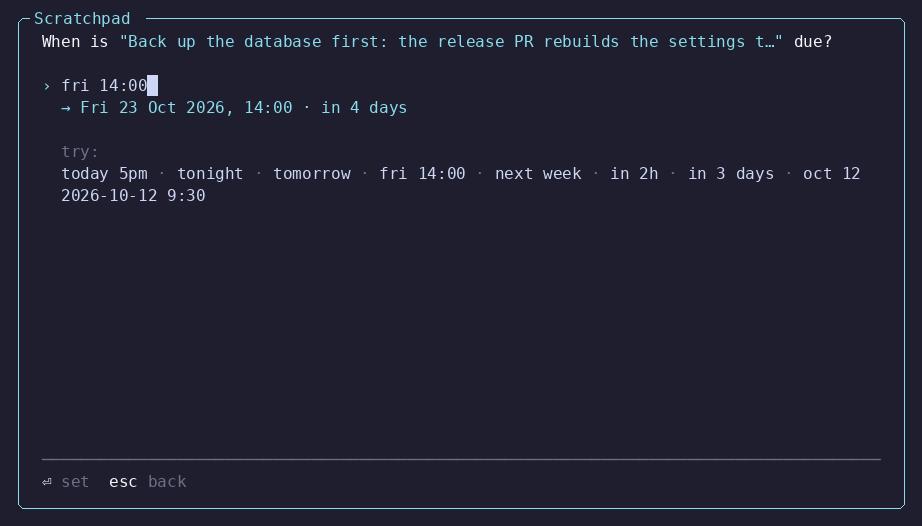
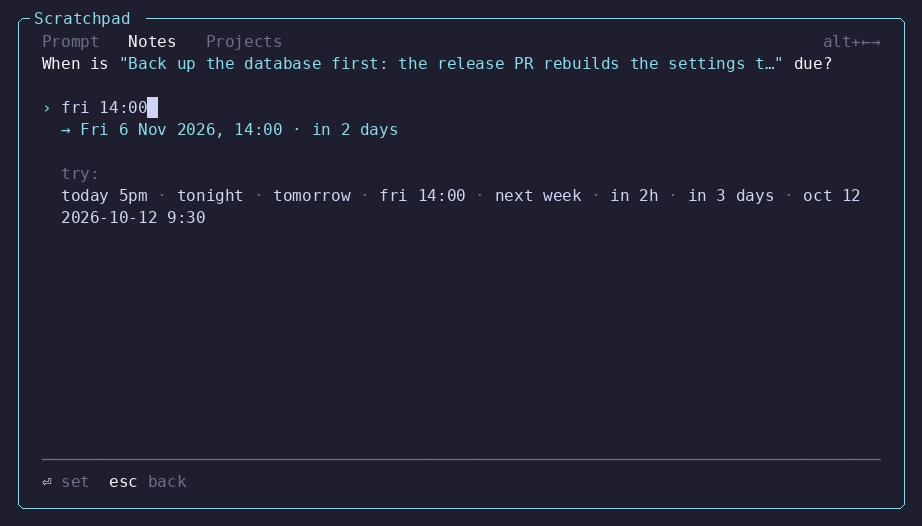
Show the tab strip and switch with alt+left and alt+right
The strip sits on the top row above both screens. Switching keeps an
unsaved note, as esc does, and passes on this folder. The README
images are redrawn with it.

diff --git a/scratchpad/lib/shared/tabs.js b/scratchpad/lib/shared/tabs.js
@@ -1,0 +1,49 @@
+"use strict";
+
+// The strip across the top of every popup, so the three read as one: Prompt,
+// Notes, Projects. Each tab is its own plugin's popup. Switching
+// closes this one and opens the next where it stood, passing on the folder
+// you were looking at.
+
+const path = require("node:path");
+const { style, truncate, displayWidth } = require("./ui");
+const { spawnDetached } = require("./herdr");
+
+const TABS = [
+  { id: "prompt", title: "Prompt", plugin: "taanviir.quick-prompt", entrypoint: "picker", prefix: "QUICK_PROMPT" },
+  { id: "notes", title: "Notes", plugin: "taanviir.scratchpad", entrypoint: "popup", prefix: "SCRATCHPAD" },
+  { id: "projects", title: "Projects", plugin: "taanviir.projects", entrypoint: "picker", prefix: "PROJECTS" },
+];
+
+const SWITCHER = path.join(__dirname, "switch.js");
+
+// `right` is the popup's own summary, kept at the far end.
+function strip(current, width, right = "") {
+  const tabs = TABS.map((tab) => (tab.id === current ? style.accent(style.bold(tab.title)) : style.dim(tab.title))).join("   ");
+  const hint = style.dim("alt+←→");
+  const end = right ? `${right}  ${hint}` : hint;
+  const gap = width - displayWidth(tabs) - displayWidth(end);
+  return gap >= 2 ? `${tabs}${" ".repeat(gap)}${end}` : truncate(tabs, width);
+}
+
+// alt+← and alt+→ step through the tabs, wrapping round. Returns the tab to
+// go to, or null when the key is not a switch.
+function switchFor(key, current) {
+  if (!key?.meta || (key.name !== "left" && key.name !== "right")) return null;
+  const at = TABS.findIndex((tab) => tab.id === current);
+  return TABS[(at + (key.name === "left" ? -1 : 1) + TABS.length) % TABS.length];
+}
+
+// The caller quits right after: Herdr opens the next popup once this one is
+// gone. `where` is { cwd, workspace, pane }, as far as the popup knows them.
+function switchTo(tab, where) {
+  spawnDetached(process.execPath, [SWITCHER, JSON.stringify({ id: tab.id, ...where })]);
+}
+
+// Each plugin reads where it was opened from in its own variables.
+function envFor(tab, { cwd, workspace, pane } = {}) {
+  const env = { [`${tab.prefix}_CWD`]: cwd, [`${tab.prefix}_WORKSPACE`]: workspace, [`${tab.prefix}_PANE`]: pane };
+  return Object.fromEntries(Object.entries(env).filter(([, value]) => value));
+}
+
+module.exports = { TABS, strip, switchFor, switchTo, envFor };

diff --git a/scratchpad/bin/popup.js b/scratchpad/bin/popup.js
@@ -10,6 +10,7 @@ const store = require("../lib/store");
 const { describe, relatedTo } = require("../lib/source");
 const { Editor } = require("../lib/shared/editor");
 const { style, tint, pad, truncate, shortenPath, displayWidth } = require("../lib/shared/ui");
+const { strip, switchFor, switchTo } = require("../lib/shared/tabs");
 const { compose } = require("../lib/brief");
 const { labels, title, known, group, partialTag } = require("../lib/labels");
 const when = require("../lib/when");
@@ -566,6 +567,12 @@ const SHEETS = {
 
 function onKey(chunk, key) {
   state.notice = null;
+  // Another tab of the strip: an unsaved note is kept, as on esc.
+  const tab = switchFor(key, "notes");
+  if (tab && tab.id !== "notes") {
+    switchTo(tab, { cwd: here.folder ?? process.env.SCRATCHPAD_CWD, workspace, pane: originPane });
+    return close();
+  }
   if (state.sheet) return SHEETS[state.sheet.type].key(chunk, key);
   if (state.screen === "notes") return onNotesKey(chunk, key);
   return onWriteKey(chunk, key);
@@ -608,9 +615,11 @@ relink();
 const ui = start({
   title: "Scratchpad",
   name: "popup",
+  // The strip takes the top row; the screen below gets the rest.
   body: (width, rows) => {
-    if (state.sheet) return SHEETS[state.sheet.type].body(width, rows);
-    return state.screen === "notes" ? notesBody(width, rows) : writeBody(width, rows);
+    const screen = state.sheet ? SHEETS[state.sheet.type].body : state.screen === "notes" ? notesBody : writeBody;
+    const { lines, caret } = screen(width, rows - 1);
+    return { lines: [strip("notes", width), ...lines], caret: caret && { ...caret, row: caret.row + 1 } };
   },
   onKey,
   onPaste,

diff --git a/scratchpad/lib/shared/switch.js b/scratchpad/lib/shared/switch.js
@@ -1,0 +1,32 @@
+"use strict";
+
+// Detached: opens the popup a tab switch asked for. Herdr opens one popup at a
+// time and says ui_busy until the one switched away from has gone.
+
+const { run, notify } = require("./herdr");
+const { TABS, envFor } = require("./tabs");
+
+const ATTEMPTS = 40;
+const RETRY_MS = 25;
+
+const sleep = (ms) => Atomics.wait(new Int32Array(new SharedArrayBuffer(4)), 0, 0, ms);
+
+function open(request) {
+  const tab = TABS.find((candidate) => candidate.id === request.id);
+  if (!tab) return;
+  const args = ["plugin", "pane", "open", "--plugin", tab.plugin, "--entrypoint", tab.entrypoint];
+  for (const [key, value] of Object.entries(envFor(tab, request))) args.push("--env", `${key}=${value}`);
+  for (let attempt = 1; ; attempt += 1) {
+    const res = run(args, { check: false });
+    if (res.ok) return;
+    if (res.code !== "ui_busy" || attempt === ATTEMPTS) {
+      notify(`${tab.title} did not open`, res.message);
+      return;
+    }
+    sleep(RETRY_MS);
+  }
+}
+
+if (require.main === module) open(JSON.parse(process.argv[2]));
+
+module.exports = { open };

diff --git a/scratchpad/lib/shared/term.js b/scratchpad/lib/shared/term.js
@@ -171,10 +171,10 @@ function isNewline(chunk, key) {
 // The editing keys of a text field. Returns whether the key was one of them.
 function editKey(editor, chunk, key) {
   switch (true) {
-    case (key.name === "left" && (key.ctrl || key.meta)) || (key.meta && key.name === "b"):
+    case (key.name === "left" && key.ctrl) || (key.meta && key.name === "b"):
       editor.wordLeft();
       break;
-    case (key.name === "right" && (key.ctrl || key.meta)) || (key.meta && key.name === "f"):
+    case (key.name === "right" && key.ctrl) || (key.meta && key.name === "f"):
       editor.wordRight();
       break;
     case key.name === "left":

diff --git a/scratchpad/README.md b/scratchpad/README.md
@@ -74,6 +74,7 @@ the field shows how it was read before you press ⏎:
 | `ctrl+v` | paste from the system clipboard |
 | `tab` | complete a label, or turn to the notes |
 | `esc` | close, keeping what you typed |
+| `alt+←` `alt+→` | switch to Prompt, Notes or Projects, keeping the folder |
 
 **In the notes**
 
